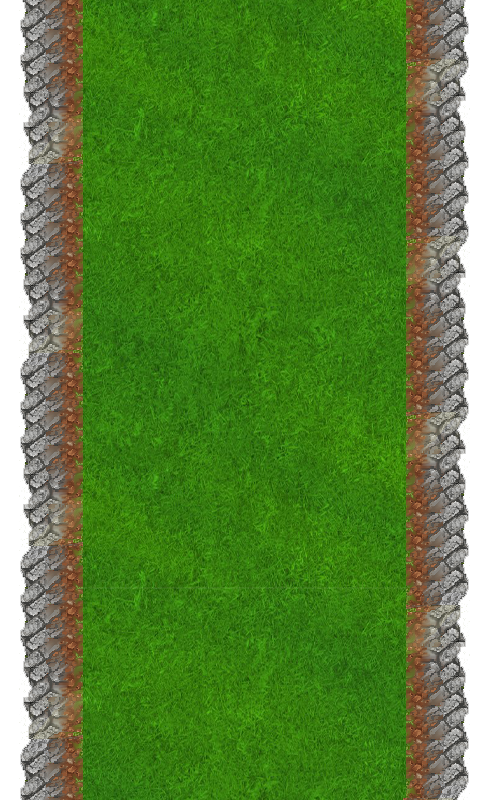
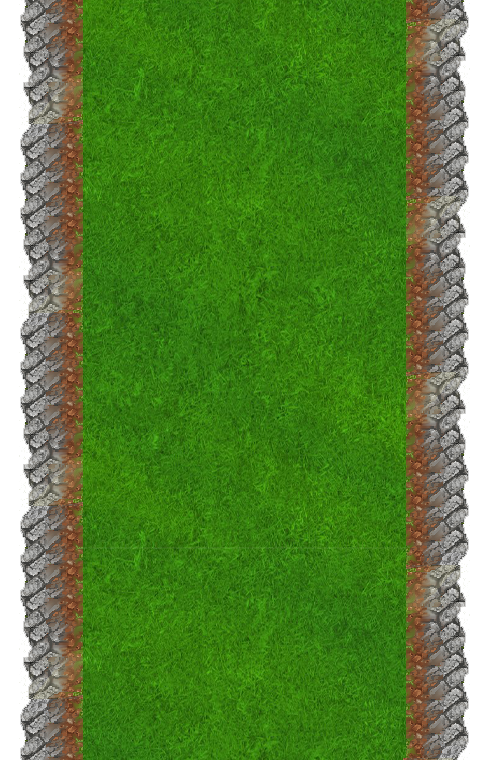
ParallaxingBackground.cs fertig Noch kleiner Spalt dazwischen

Changed region(s): [[0.0312, 0.0, 1.0, 0.9987], [0.4062, 0.9382, 0.4375, 0.9684]]

diff --git a/DonkeyKong/GameStateManagementSample/Screens/GameplayScreen.cs b/DonkeyKong/GameStateManagementSample/Screens/GameplayScreen.cs
@@ -16,6 +16,7 @@ using Microsoft.Xna.Framework.Graphics;
 using Microsoft.Xna.Framework.Input;
 using GameStateManagement;
 using System.Diagnostics;
+using GameStateManagementSample.Entities;
 #endregion
 
 namespace GameStateManagementSample
@@ -41,11 +42,13 @@ namespace GameStateManagementSample
 
         InputAction pauseAction;
 
-        Texture2D grassTexture;
-        Texture2D cloudsTexture;
+        ParallaxingBackground grassTexture;
+        ParallaxingBackground cloudTexture;
+        Texture2D mainBackground;
 
-        Vector2 cloudsPosition = Vector2.Zero;
-        float cloudSpeed = 0.5f;
+
+        //Vector2 cloudsPosition = Vector2.Zero;
+        //float cloudSpeed = 0.5f;
 
 
         #endregion
@@ -80,8 +83,16 @@ namespace GameStateManagementSample
 
                 gameFont = content.Load<SpriteFont>("gamefont");
 
-                grassTexture = content.Load<Texture2D>("grass1");
-                cloudsTexture = content.Load<Texture2D>("clouds");
+                //grassTexture = content.Load<Texture2D>("grass1");
+                //cloudsTexture = content.Load<Texture2D>("clouds");
+
+                //backgrounds
+                cloudTexture = new ParallaxingBackground();
+                grassTexture = new ParallaxingBackground();
+
+                mainBackground = content.Load<Texture2D>("water");
+                grassTexture.Initialize(content, "grass2", 800, 1);
+                cloudTexture.Initialize(content, "clouds", 800, 3);
 
                 // A real game would probably have more content than this sample, so
                 // it would take longer to load. We simulate that by delaying for a
@@ -152,6 +163,9 @@ namespace GameStateManagementSample
 
             if (IsActive)
             {
+                grassTexture.Update();
+                cloudTexture.Update();
+
                 // Apply some random jitter to make the enemy move around.
                 const float randomization = 10;
 
@@ -165,13 +179,7 @@ namespace GameStateManagementSample
 
                 enemyPosition = Vector2.Lerp(enemyPosition, targetPosition, 0.05f);
 
-                //moving clouds along Y axis
-                if (Math.Abs(cloudsPosition.Y) > ScreenManager.GraphicsDevice.Viewport.Width || cloudsPosition.Y == 0)
-                    cloudSpeed *= -1;
-                {
-
-                    cloudsPosition = new Vector2(0, cloudsPosition.Y - cloudSpeed);
-                }
+                
             }
         }
 
@@ -262,17 +270,11 @@ namespace GameStateManagementSample
 
             spriteBatch.Begin();
 
-            spriteBatch.Draw(grassTexture, fullscreen,
-                             new Color(TransitionAlpha, TransitionAlpha, TransitionAlpha));
-            spriteBatch.Draw(cloudsTexture, cloudsPosition, new Color(TransitionAlpha, TransitionAlpha, TransitionAlpha));
-
-            if (cloudsPosition.Y >= 15)
-            {
-                spriteBatch.Draw(cloudsTexture, fullscreen, new Color(TransitionAlpha, TransitionAlpha, TransitionAlpha));
-            }
-
-
-            //Debug.WriteLine(cloudsPosition);
+            //backgrounds
+            spriteBatch.Draw(mainBackground, Vector2.Zero, Color.White);
+            grassTexture.Draw(spriteBatch);
+            cloudTexture.Draw(spriteBatch);
+           
 
             spriteBatch.End();
 

diff --git a/DonkeyKong/GameStateManagementSample/Entities/ParallaxingBackground.cs b/DonkeyKong/GameStateManagementSample/Entities/ParallaxingBackground.cs
@@ -1,0 +1,86 @@
+using System;
+using System.Collections.Generic;
+using System.Linq;
+using System.Text;
+using Microsoft.Xna.Framework.Graphics;
+using Microsoft.Xna.Framework;
+using Microsoft.Xna.Framework.Content;
+
+namespace GameStateManagementSample.Entities
+{
+    class ParallaxingBackground
+    {
+
+        Texture2D backgroundTexture;
+        Vector2[] positions;
+        Int32 speed;
+
+        public void Initialize(ContentManager content, String texturePath, int screenHeight, int speed)
+        {
+            // Load the background texture we will be using
+            backgroundTexture = content.Load<Texture2D>(texturePath);
+
+            // Set the speed of the background 
+            this.speed = speed;
+
+            // If we divide the screen with the texture height then we can determine
+            // the number of tiles need. We add 1 to it so that we won't have a gap in the tiling
+            positions = new Vector2[screenHeight / backgroundTexture.Height + 1];
+
+            // Set the initial positions of the parallaxing background
+            for (int i = 0; i < positions.Length; i++)
+            {
+                // We need the tiles to be side by side to create a tiling effect
+                positions[i] = new Vector2(0, i * backgroundTexture.Height);
+            }
+        } 
+
+
+        public void Update()
+        { 
+             for (int i = 0; i < positions.Length; i++) 
+             {
+                  // Update the position of the screen by adding the speed
+                  positions[i].Y += speed;
+                  // If the speed has the background moving to the left
+                  if (speed <= 0)
+                  {
+                       // Check the texture is out of view then put that texture at the end of the screen
+                      //if (positions[i].X <= -backgroundTexture.Width)
+                      //{
+                      //    positions[i].X = backgroundTexture.Width * (positions.Length - 1);
+                      //}
+
+                      if (positions[i].Y <= -backgroundTexture.Height)
+                      {
+                          positions[i].Y = backgroundTexture.Height * (positions.Length - 1);
+                      }
+                  }
+                  // If the speed has the background moving to the right
+                 else
+                 {
+                       // Check if the texture is out of view then position it to the start of the screen 
+
+                     if (positions[i].Y >= backgroundTexture.Height * (positions.Length - 1))
+                     {
+                         positions[i].Y = -backgroundTexture.Height;
+                     }
+              
+                  }
+             }
+        }
+
+
+        public void Draw(SpriteBatch spriteBatch)
+        {
+           
+            for (int i = 0; i < positions.Length; i++)
+            {
+                
+                spriteBatch.Draw(backgroundTexture, positions[i], Color.White);
+            }
+            
+        } 
+
+    }
+}

diff --git a/DonkeyKong/GameStateManagementSample/Game.cs b/DonkeyKong/GameStateManagementSample/Game.cs
@@ -13,6 +13,8 @@ using Microsoft.Xna.Framework;
 using Microsoft.Xna.Framework.Input;
 using Microsoft.Xna.Framework.Graphics;
 using GameStateManagementSample.Entities;
+using Microsoft.Xna.Framework.Content;
+using System.Diagnostics;
 
 namespace GameStateManagementSample
 {
@@ -27,6 +29,7 @@ namespace GameStateManagementSample
         GraphicsDeviceManager graphics;
         ScreenManager screenManager;
         ScreenFactory screenFactory;
+
         PlayerEntity player;
         
         SpriteBatch spriteBatch;
@@ -38,6 +41,8 @@ namespace GameStateManagementSample
         {
             Content.RootDirectory = "Content";
 
+          
+
             graphics = new GraphicsDeviceManager(this);
             TargetElapsedTime = TimeSpan.FromTicks(333333);
 
@@ -47,7 +52,7 @@ namespace GameStateManagementSample
             // Choose whether you want a landscape or portait game by using one of the two helper functions.
             //InitializeLandscapeGraphics();
             InitializePortraitGraphics();
-            // InitializePortraitGraphics();
+            
 #endif
 
             // Create the screen factory and add it to the Services
@@ -78,12 +83,13 @@ namespace GameStateManagementSample
         /// related content.  Calling base.Initialize will enumerate through any components
         /// and initialize them as well.
         /// </summary>
-        protected override void Initialize()
+        public void Initialize(ContentManager content, String texturePath, int screenWidth, int speed)
         {
             // TODO: Add your initialization logic here
             Texture2D playerTexture = content.Load<Texture2D>("grass1");
-            player.Initialize();
+            //player.Initialize(texture, position);
             base.Initialize();
+
         }
 
         /// <summary>
@@ -100,7 +106,7 @@ namespace GameStateManagementSample
             Vector2 playerPosition = new Vector2(GraphicsDevice.Viewport.TitleSafeArea.X,
             GraphicsDevice.Viewport.TitleSafeArea.Y + GraphicsDevice.Viewport.TitleSafeArea.Height / 2);
 
-            player.Initialize(Content.Load<Texture2D>("player"), playerPosition); 
+            //player.Initialize(Content.Load<Texture2D>("player"), playerPosition); 
         }
 
         /// <summary>
@@ -138,6 +144,9 @@ namespace GameStateManagementSample
                 this.Exit();
 
             // TODO: Add your update logic here
+
+            Debug.WriteLine(GraphicsDevice.Viewport.Height);
+          
 
             base.Update(gameTime);
         }

diff --git a/DonkeyKong/GameStateManagementSample/Class1.cs b/DonkeyKong/GameStateManagementSample/Class1.cs
@@ -1,0 +1,11 @@
+using System;
+using System.Collections.Generic;
+using System.Linq;
+using System.Text;
+
+namespace GameStateManagementSample
+{
+    class Class1
+    {
+    }
+}
